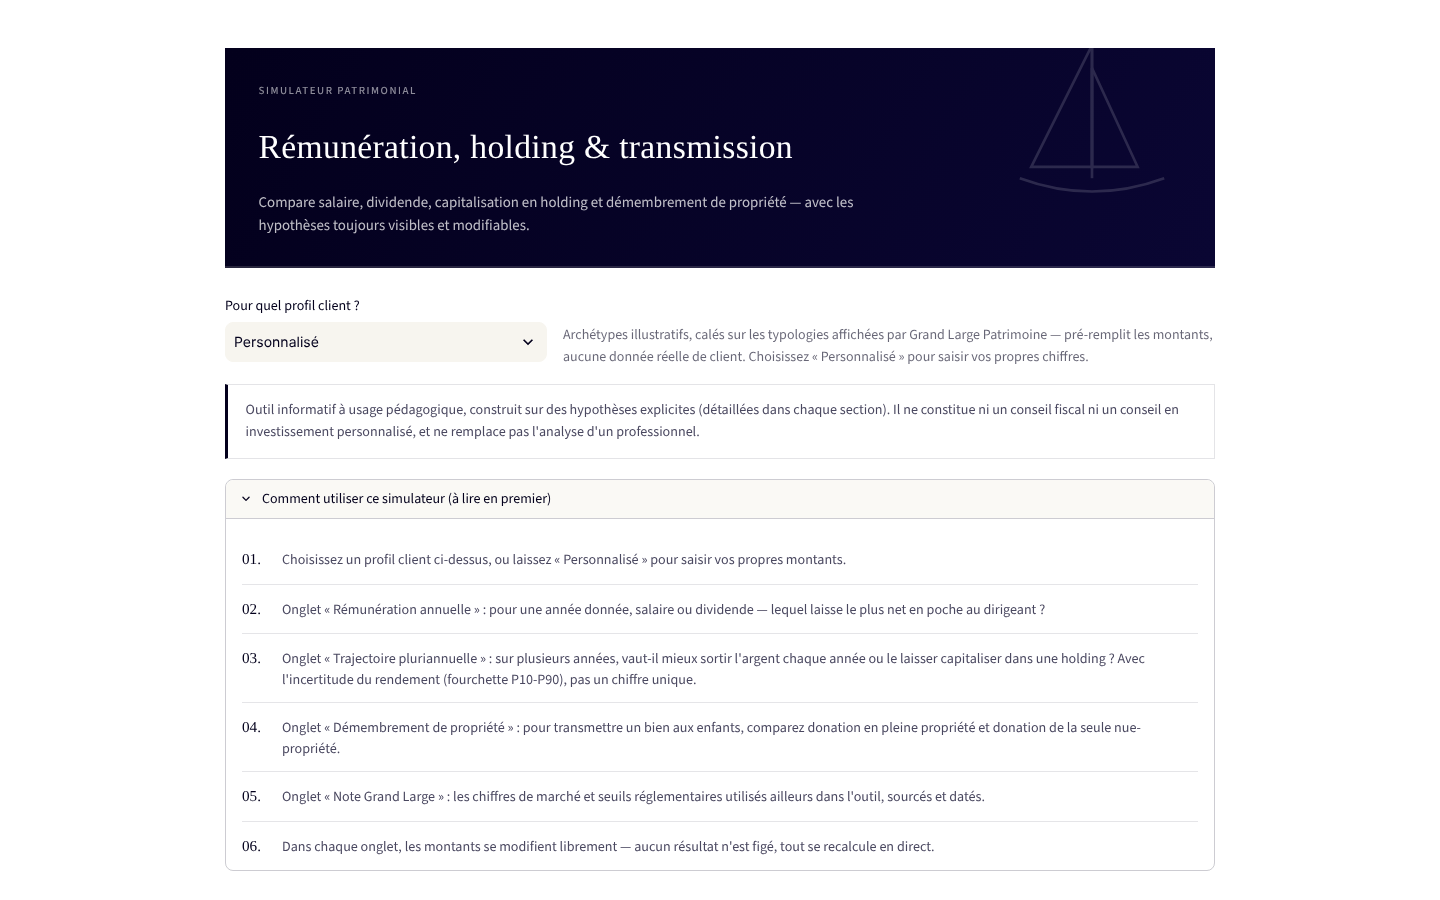
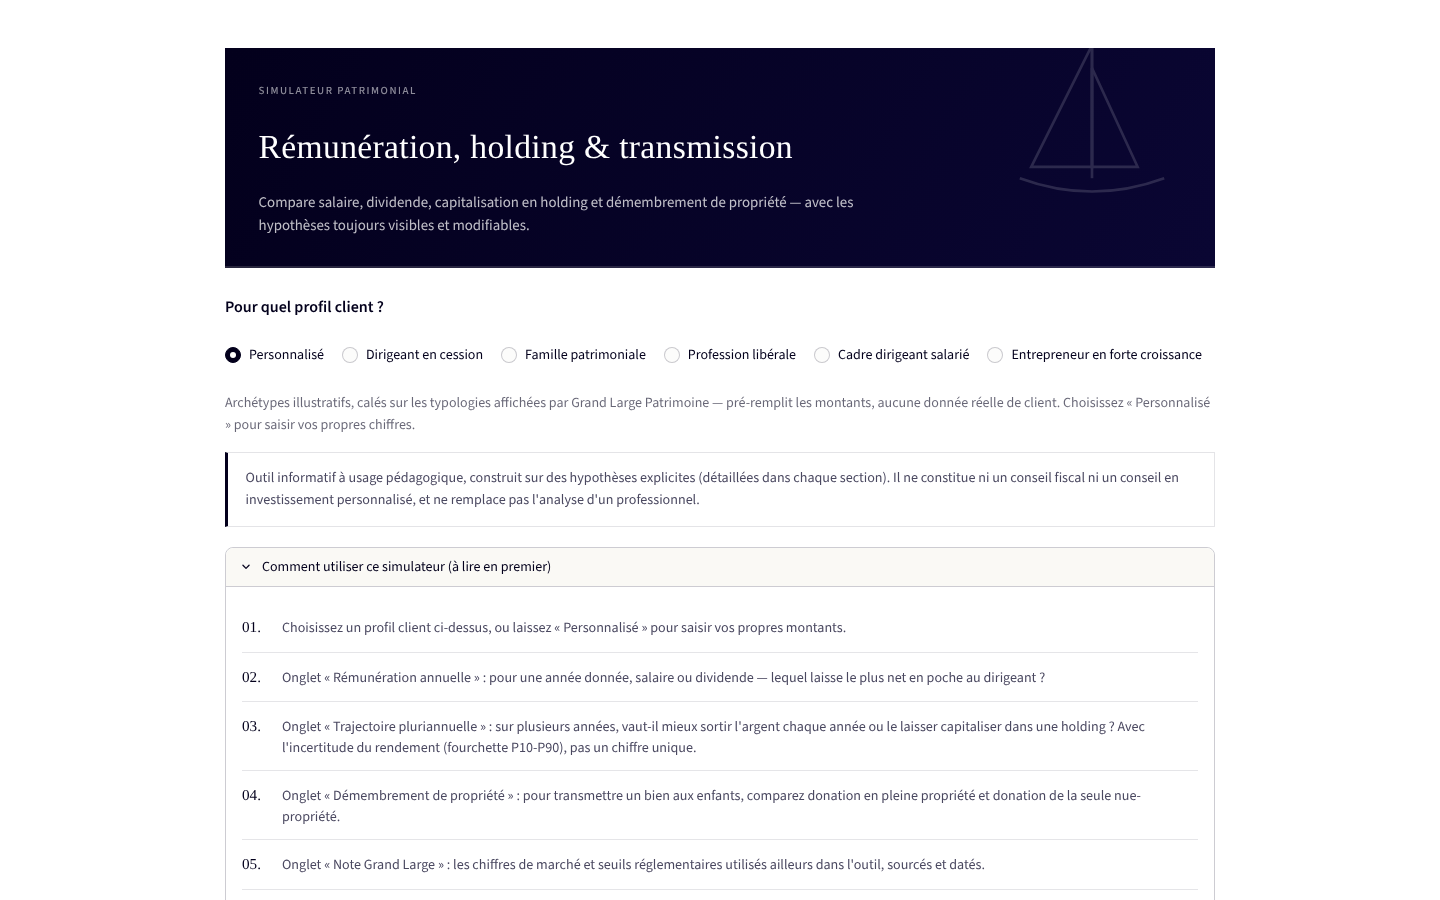
Remplace le menu déroulant du profil client par des boutons radio, et ajoute 2 profils
Le selectbox Streamlit est en réalité un champ de recherche filtrable
(comportement par défaut de ce composant) : on peut y taper du texte, ce
qui n'a pas de sens pour un choix fermé parmi quelques profils, et
l'affichage passe par un placeholder « Choose an option » en anglais une
fois le menu ouvert. Remplacé par des boutons radio horizontaux : les
profils sont tous visibles d'un coup d'œil, aucune saisie possible.

Ajout de 2 profils (Cadre dirigeant salarié, Entrepreneur en forte
croissance) pour mieux couvrir les cas d'usage réels d'un dirigeant,
portant le total à 5 archétypes illustratifs + Personnalisé.

Claude-Session: https://claude.ai/code/session_013d8botr14ACMNDxZSsXeTk

diff --git a/app.py b/app.py
@@ -60,6 +60,8 @@ PROFILS_CLIENT = {
     "Dirigeant en cession": {"montant": 300_000, "profit_annuel": 80_000},
     "Famille patrimoniale": {"montant": 80_000, "profit_annuel": 50_000},
     "Profession libérale": {"montant": 60_000, "profit_annuel": 35_000},
+    "Cadre dirigeant salarié": {"montant": 50_000, "profit_annuel": 30_000},
+    "Entrepreneur en forte croissance": {"montant": 500_000, "profit_annuel": 150_000},
 }
 
 st.set_page_config(page_title="Grand Large · Simulateur patrimonial", layout="wide", page_icon="⛵")
@@ -348,20 +350,19 @@ st.markdown(
     unsafe_allow_html=True,
 )
 
-col_profil, col_profil_note = st.columns([1, 2])
-with col_profil:
-    st.selectbox(
-        "Pour quel profil client ?",
-        ["Personnalisé"] + list(PROFILS_CLIENT.keys()),
-        key="persona_select",
-        on_change=_appliquer_profil_client,
-    )
-with col_profil_note:
-    st.markdown("<div style='height:1.85rem;'></div>", unsafe_allow_html=True)
-    st.caption(
-        "Archétypes illustratifs, calés sur les typologies affichées par Grand Large Patrimoine — "
-        "pré-remplit les montants, aucune donnée réelle de client. Choisissez « Personnalisé » pour saisir vos propres chiffres."
-    )
+st.markdown("**Pour quel profil client ?**")
+st.radio(
+    "Pour quel profil client ?",
+    ["Personnalisé"] + list(PROFILS_CLIENT.keys()),
+    key="persona_select",
+    on_change=_appliquer_profil_client,
+    horizontal=True,
+    label_visibility="collapsed",
+)
+st.caption(
+    "Archétypes illustratifs, calés sur les typologies affichées par Grand Large Patrimoine — "
+    "pré-remplit les montants, aucune donnée réelle de client. Choisissez « Personnalisé » pour saisir vos propres chiffres."
+)
 
 st.markdown(
     '<div class="bloc-disclaimer">Outil informatif à usage pédagogique, construit sur des '
